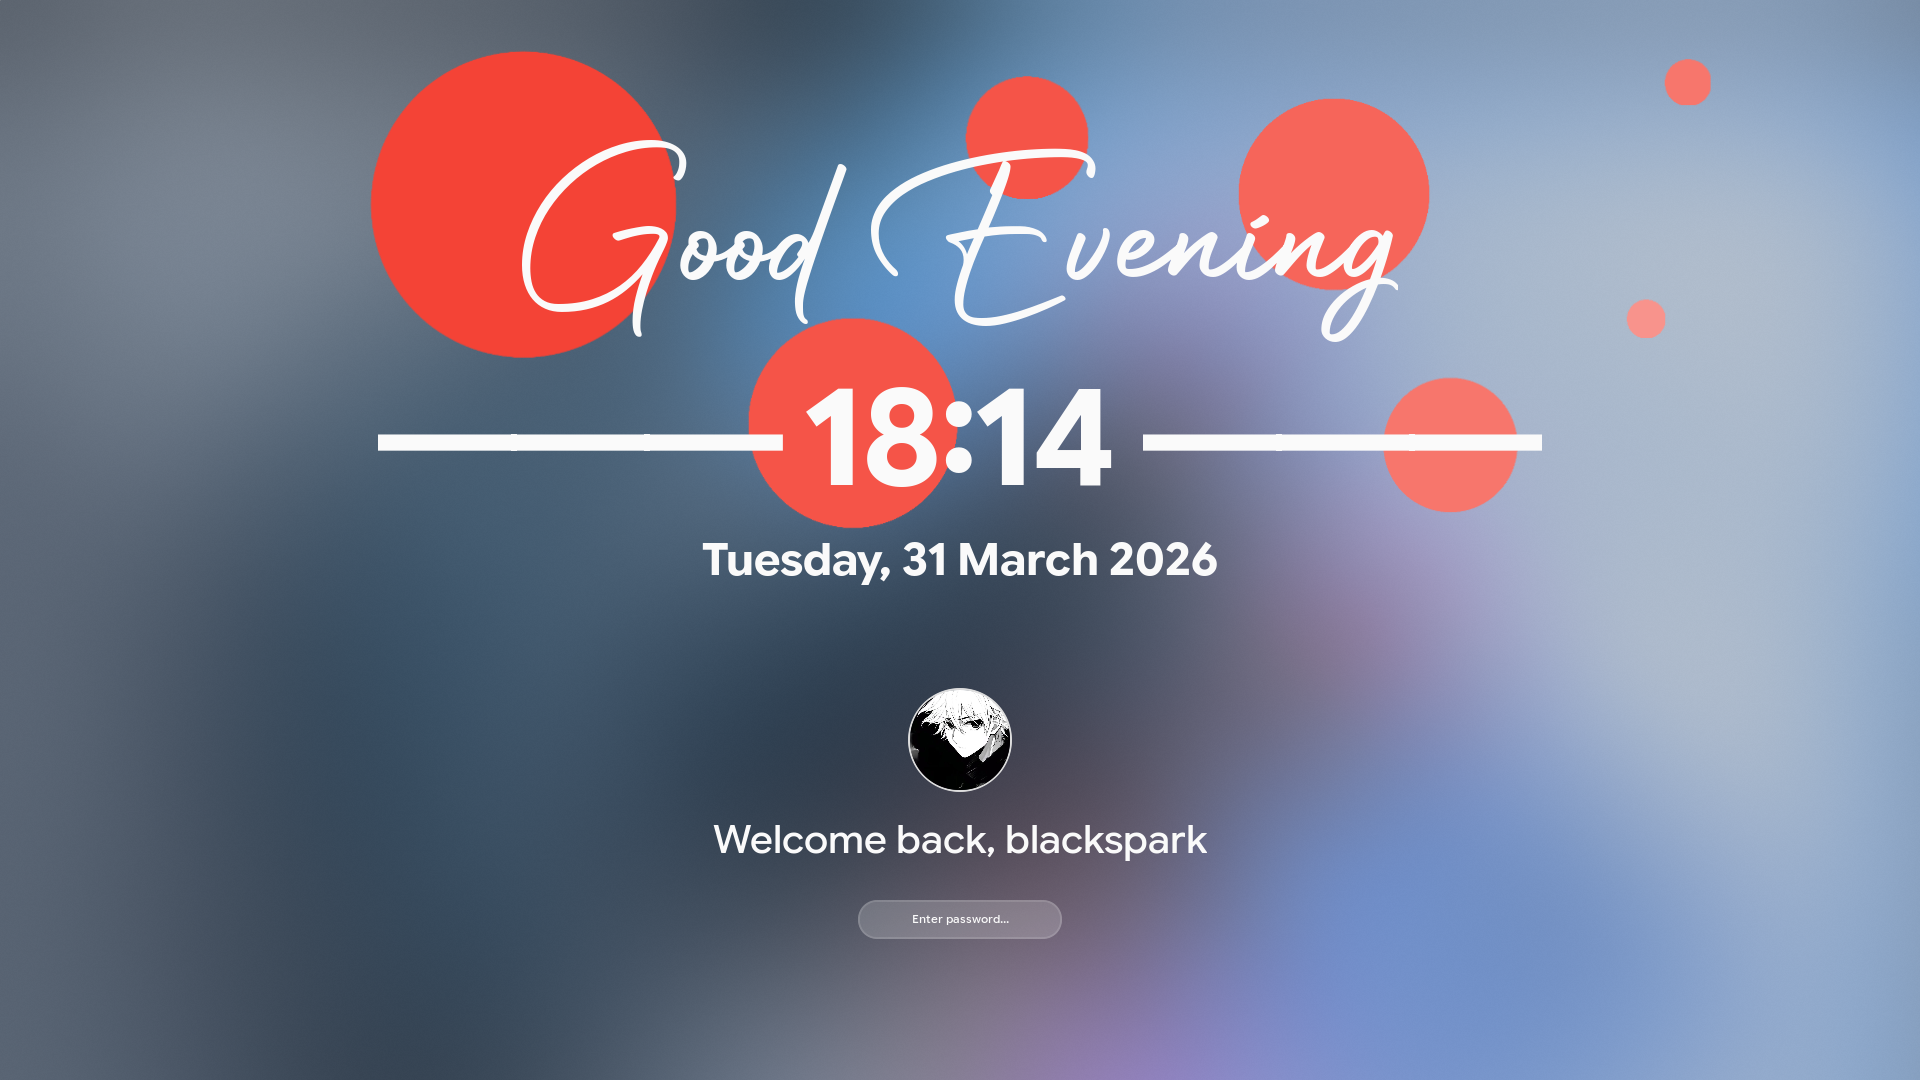
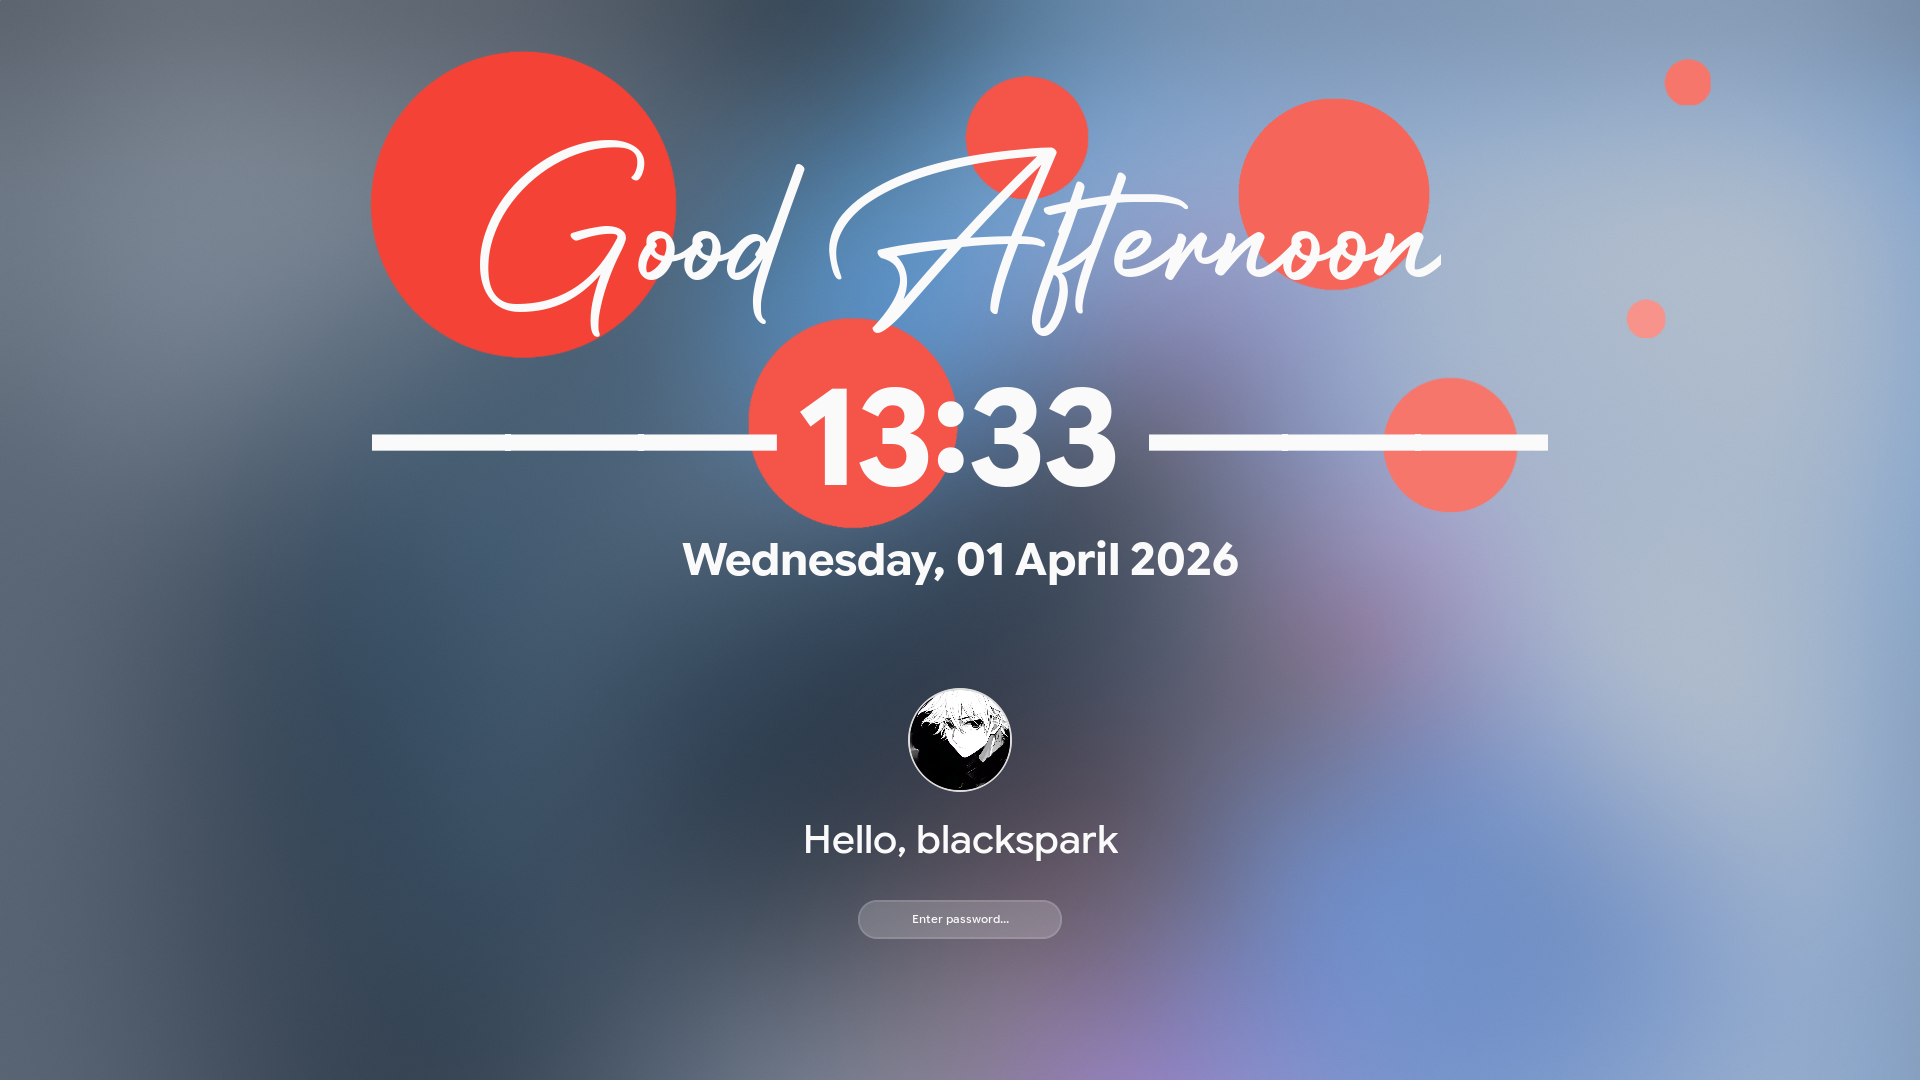
Mango updated

diff --git a/README.md b/README.md
@@ -32,7 +32,8 @@
 
 | **Screenlock** |
 |:---:|
-| ![Main](Screenshots/hyprlock.png) |
+| ![hyprlock](Screenshots/hyprlock.png) |
+| ![hyprlock_alt](Screenshots/hyprlock_alt.png) |
 
 | **Fastfetch** |
 |:---:|
